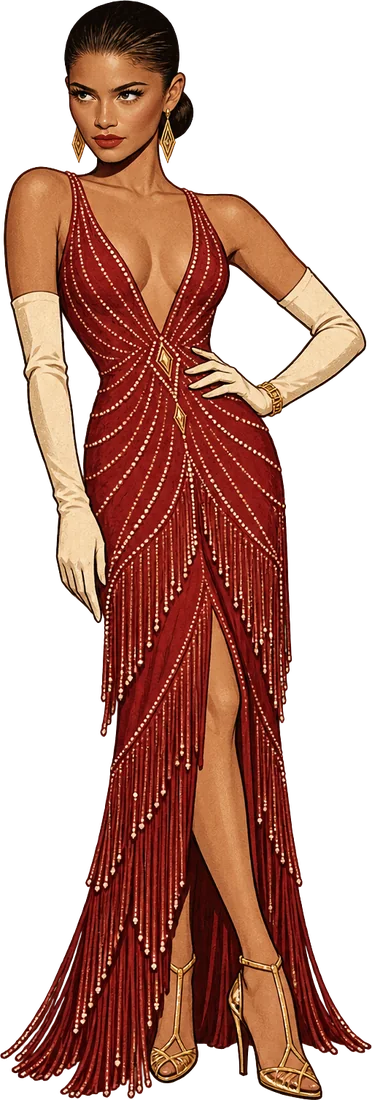
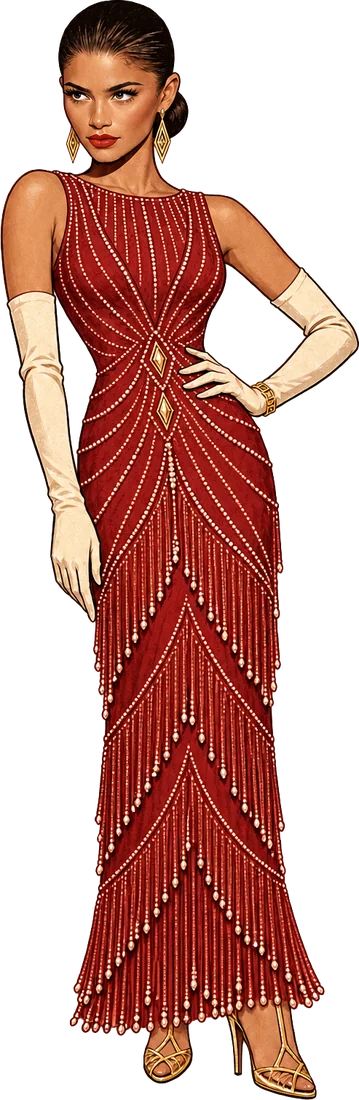
How to play in five pictured cards; Daya's dress covered up
How to play is five cards (six with an accomplice), each with a title and a
picture of the rule: the guests' faces with the masked killer among them, the
weapons, the map with a phone scanning a card, a guest behind bars with the
votes, and who + with what + where. New lines (howCase, howSearch, howJail2,
howWin2) are drafts for Heston's review and still need recording.

Claude-Session: https://claude.ai/code/session_011n5gPsd4ZZgTYeVzG34PYX

diff --git a/src/tv/Tv.tsx b/src/tv/Tv.tsx
@@ -3,7 +3,7 @@ import { useMutation, useQuery } from "convex/react";
 import { api } from "../../convex/_generated/api";
 import { HOSTS, captionText, cueFile, cueVariant, type CueKey } from "../../convex/narration";
 import { VOTE } from "../../convex/shared";
-import { SHOW } from "../../convex/show";
+import { HOW_TITLE, SHOW } from "../../convex/show";
 import { Qr, wifiQrText } from "../lib/qr";
 import HouseMap from "./HouseMap";
 import { avatarSrc, faceUrl, faceX, figureUrl } from "../lib/figure";
@@ -668,19 +668,30 @@ function showScene(d: Data, p: Plan, now: number): Scene | null {
     const n = p.rules.steps.length;
     const i = Math.max(0, p.rules.steps.findIndex((st) => now < st.until));
     const step = p.rules.steps[i];
-    const wide = step.art === "map";
+    const wide = step.art === "search" || step.art === "win";
+    const stand = d.standIns?.length ? d.standIns : ALL_FIGURE_KEYS;
     return {
       key: `how${i}`,
       node: (
         <div className="tv-scene how">
           <div className={`tv-how ${wide ? "wide" : ""}`}>
             <div className={`tv-how-art ${wide ? "map" : ""}`}>
-              {step.art === "map" ? (
-                <HouseMap map={demoMap(d.map, step.at)} round={1} now={now} />
+              {step.art === "suspects" ? (
+                <HowSuspects faces={stand.slice(0, 4)} />
+              ) : step.art === "search" ? (
+                <div className="tv-how-search">
+                  <HouseMap map={demoMap(d.map, step.at)} round={1} now={now} />
+                  <ScanPhone />
+                </div>
               ) : step.art === "weapons" ? (
                 <WeaponFan weapons={d.weapons} />
-              ) : step.art === "bars" ? (
-                <Jailed figure={dress(d, "guest3")} className="enter" />
+              ) : step.art === "jail" ? (
+                <div className="tv-how-jail">
+                  <Jailed figure={dress(d, "guest3")} className="enter" />
+                  <VoteDots />
+                </div>
+              ) : step.art === "win" ? (
+                <HowWin face={stand[0]} weapon={d.weapons[0] ?? { key: "candlestick", name: "Candlestick" }} room={d.map.rooms[0]?.label ?? "The Lounge"} />
               ) : step.art === "pair" ? (
                 // The accomplice: the masked killer, with someone at their shoulder.
                 <div className="tv-how-pair">
@@ -693,6 +704,7 @@ function showScene(d: Data, p: Plan, now: number): Scene | null {
             </div>
             <div className="tv-how-text">
               <span className="tv-kick fade">How to play · {i + 1} of {n}</span>
+              {HOW_TITLE[step.cue] && <h2 className="tv-how-title fade">{HOW_TITLE[step.cue]}</h2>}
               <div className="tv-rule fade">{captionText(step.cue, g.tone, g.narrator.host, step.v)}</div>
             </div>
           </div>
@@ -894,6 +906,75 @@ function WeaponFan({ weapons }: { weapons: Weapon[] }) {
       {three.map((w) => (
         <WeaponCard key={w.key} weapon={w} />
       ))}
+    </div>
+  );
+}
+
+/** How to play, card 1: this game's faces with the masked killer in the middle. One of them did it. */
+function HowSuspects({ faces }: { faces: string[] }) {
+  const row = [...faces.slice(0, 2), "killer", ...faces.slice(2, 4)];
+  return (
+    <div className="tv-how-suspects">
+      {row.map((f, i) => (
+        <span key={`${f}${i}`} className={`face ${f === "killer" ? "it" : ""}`} style={{ animationDelay: `${0.1 + i * 0.12}s` }}>
+          <img src={faceUrl(f)} alt="" />
+          {f === "killer" && <b>?</b>}
+        </span>
+      ))}
+    </div>
+  );
+}
+
+/** How to play, searching: a phone scanning an evidence card. */
+function ScanPhone() {
+  return (
+    <div className="tv-scan" aria-hidden="true">
+      <svg viewBox="0 0 60 100">
+        <rect x="2" y="2" width="56" height="96" rx="8" className="body" />
+        <rect x="8" y="12" width="44" height="70" rx="2" className="screen" />
+        <g className="qr">
+          {[0, 1, 2, 3, 4].flatMap((r) => [0, 1, 2, 3, 4].map((c) => ((r * 7 + c * 3) % 5 < 3 || (r % 4 === 0 && c % 4 === 0) ? <rect key={`${r}${c}`} x={14 + c * 6.4} y={28 + r * 6.4} width="5.4" height="5.4" /> : null)))}
+        </g>
+        <rect x="10" y="44" width="40" height="1.6" className="beam" />
+      </svg>
+    </div>
+  );
+}
+
+/** How to play, the jail vote: more than half of the votes. */
+function VoteDots() {
+  return (
+    <div className="tv-vdots">
+      <span className="dots">
+        {[1, 1, 1, 0, 0].map((on, i) => (
+          <i key={i} className={on ? "on" : ""} style={{ animationDelay: `${0.6 + i * 0.18}s` }} />
+        ))}
+      </span>
+      <span className="lab">More than half</span>
+    </div>
+  );
+}
+
+/** How to play, locking in: who + with what + where. */
+function HowWin({ face, weapon, room }: { face: string; weapon: Weapon; room: string }) {
+  return (
+    <div className="tv-how-win">
+      <div className="tile fade" style={{ animationDelay: ".15s" }}>
+        <span className="q">Who</span>
+        <span className="pic face">
+          <img src={faceUrl(face)} alt="" />
+        </span>
+      </div>
+      <span className="plus fade" style={{ animationDelay: ".35s" }}>+</span>
+      <div className="tile fade" style={{ animationDelay: ".5s" }}>
+        <span className="q">With what</span>
+        <WeaponCard weapon={weapon} />
+      </div>
+      <span className="plus fade" style={{ animationDelay: ".7s" }}>+</span>
+      <div className="tile fade" style={{ animationDelay: ".85s" }}>
+        <span className="q">Where</span>
+        <span className="pic room">{room}</span>
+      </div>
     </div>
   );
 }

diff --git a/convex/narration.ts b/convex/narration.ts
@@ -166,6 +166,33 @@ export const CUES = {
     adult: "More than half of you need the right killer, more than half the right weapon, and more than half the right room. Exactly half is a tie, and ties go to the killer. [short pause] Then we vote for Best Dressed and Best Liar.",
     wild: ["[maniacal laughter]", "[cackles]"],
   },
+  // ---- How to play, v3 (Oct 16, Heston: "the rules need to be simplified", "use visuals to help explain the rules,
+  // and condense the rules if possible"): five cards (six with an accomplice), each with a picture that shows the
+  // rule. Same rules as v2, fewer words. Drafts for Heston's review. ----
+  howCase: {
+    when: "How to play v3, card 1 (one of you did it; your phone; lying)",
+    classic: "[warm, conspiratorial] One of you killed Don Ray Sanders. Your phone will tell you if it was you. [short pause] Only the guilty may lie about the murder.",
+    adult: "[warm, conspiratorial] One of you killed Don Ray Sanders. Your phone will tell you if it was you. [short pause] Only the guilty get to lie about the murder. Everyone else, lie about everything else.",
+    wild: ["[clapping hands, way over the top]", "[cackles]"],
+  },
+  howSearch: {
+    when: "How to play v3, searching",
+    classic: "Three rounds. Each round, search the house for evidence cards and scan them with your phone. [short pause] The evidence shows up right here.",
+    adult: "Three rounds. Tear the house apart for evidence cards and scan them with your phone. [short pause] The dirt shows up right here.",
+    wild: ["[shouting like a carnival barker]", ""],
+  },
+  howJail2: {
+    when: "How to play v3, the jail vote",
+    classic: "After each round, vote someone into jail. It takes more than half of you. [short pause] Jailbirds can't search or vote, and next round you can vote them out.",
+    adult: "After each round, vote somebody into jail. More than half of you have to agree. [short pause] Jailbirds can't search or vote. They can bribe. Next round, you can spring them.",
+    wild: ["[banging on the bars, shouting]", "[evil laugh]"],
+  },
+  howWin2: {
+    when: "How to play v3, locking in and winning",
+    classic: "After round three, lock in who did it, with what, and where. [short pause] If most of you get the killer, the weapon and the room right, you win. If not, the killer walks.",
+    adult: "After round three, lock in: who, with what, and where. [short pause] If most of you get all three right, you win. Miss, and the killer walks out of here laughing.",
+    wild: ["[maniacal laughter]", "[cackles]"],
+  },
   // ---- roll call, v2: after How to play ----
   rollLocked: {
     when: "Roll call v2 begins",
@@ -499,6 +526,22 @@ export const ADULT_MORE: Partial<Record<CueKey, string[]>> = {
   howWin: [
     "To win, more than half of you need the right killer, more than half the right weapon, and more than half the right room. Half is not more than half. We checked with an accountant. [short pause] Then we vote for Best Dressed and Best Liar.",
     "More than half of you have to get the killer, more than half the weapon, and more than half the room. Miss one, and the killer walks out a free and very smug individual. [short pause] Then we vote for Best Dressed and Best Liar.",
+  ],
+  howCase: [
+    "[warm, conspiratorial] Somebody in this room killed the Don. Check your phone after the roll call to find out if it was you. [short pause] Only the guilty may lie about the murder.",
+    "[warm, conspiratorial] One of you is a killer, and your phone knows which. Keep your screen to yourself. [short pause] Only the guilty may lie about the murder. The rest of you, try honesty. It's new.",
+  ],
+  howSearch: [
+    "Three rounds of searching. Find the evidence cards, scan them with your phone, and put things back where you found them. [short pause] The evidence lands on this screen.",
+    "Three rounds. Hunt down the evidence cards and scan them. Drawers, closets, under the couch. [short pause] Whatever you find shows up here.",
+  ],
+  howJail2: [
+    "Every round ends with a jail vote. Majority rules. [short pause] Jailbirds can't search or vote, but they can still talk, which is the real punishment for everyone else.",
+    "After each round, you vote someone behind bars. More than half of you, or nobody goes. [short pause] Next round you can vote them back out. This is called the justice system.",
+  ],
+  howWin2: [
+    "After the last round, everybody who's free locks in who, with what, and where. No take-backs. [short pause] Most of you right on all three, you win. Otherwise, the killer goes home happy.",
+    "Round three ends, you lock in: the killer, the weapon, the room. [short pause] If most of you nail all three, justice. If not, the killer gets a very nice weekend.",
   ],
   rollLocked: [
     "[low, grave] The doors are locked until we figure out which one of you did it. [short pause] Bathroom breaks will be supervised. Let's meet the suspects.",

diff --git a/src/tv/tv.css b/src/tv/tv.css
@@ -335,3 +335,34 @@
 .tv-reveal-weapon { display: flex; align-items: center; gap: 2cqw; }
 .tv-reveal-weapon .tv-wcard { width: 10cqw; }
 @media (prefers-reduced-motion: reduce) { .tv-jailed.slam .bars, .tv-verdict-who img.freed { animation: none; } }
+
+/* How to play v3 (Oct 16): a title over each rule, and a picture that shows it */
+.tv-how-title { margin: 0; font-family: var(--display); font-size: 4.6cqw; line-height: 1; color: var(--paper); }
+.tv-how-text .tv-rule { font-size: 2.5cqw; }
+.tv-how-suspects { display: flex; align-items: center; justify-content: center; gap: 1cqw; height: 100%; }
+.tv-how-suspects .face { position: relative; width: 6.4cqw; aspect-ratio: 1; border-radius: 50%; overflow: hidden; border: .2cqw solid var(--brass); opacity: .75; animation: howin .7s cubic-bezier(.2, .8, .2, 1) both; }
+.tv-how-suspects .face img { width: 100%; height: 100%; object-fit: cover; display: block; }
+.tv-how-suspects .face.it { width: 10cqw; opacity: 1; border-color: #c0392b; box-shadow: 0 0 2.4cqw rgba(192, 57, 43, .6); }
+.tv-how-suspects .face.it b { position: absolute; inset: 0; display: grid; place-items: center; font-family: var(--display); font-size: 6cqw; color: rgba(255, 255, 255, .9); text-shadow: 0 .3cqw 1cqw rgba(0, 0, 0, .8); }
+.tv-how-search { position: relative; width: 100%; }
+.tv-scan { position: absolute; right: -2cqw; bottom: -2cqw; width: 9cqw; filter: drop-shadow(0 .8cqw 1.4cqw rgba(0, 0, 0, .6)); animation: howin .9s .5s cubic-bezier(.2, .8, .2, 1) both; }
+.tv-scan svg { display: block; width: 100%; }
+.tv-scan .body { fill: #1c1014; stroke: var(--brass); stroke-width: 1.4; }
+.tv-scan .screen { fill: #f4ead5; }
+.tv-scan .qr rect { fill: #1c1014; }
+.tv-scan .beam { fill: #c0392b; animation: scanbeam 1.6s ease-in-out infinite alternate; }
+@keyframes scanbeam { from { transform: translateY(-14px); } to { transform: translateY(16px); } }
+.tv-how-jail { position: relative; height: 100%; display: grid; place-items: end center; }
+.tv-vdots { position: absolute; left: 50%; bottom: -4.2cqw; translate: -50% 0; display: grid; justify-items: center; gap: .5cqw; }
+.tv-vdots .dots { display: flex; gap: .8cqw; }
+.tv-vdots i { width: 2cqw; height: 2cqw; border-radius: 50%; border: .2cqw solid var(--brass); animation: howin .5s both; }
+.tv-vdots i.on { background: var(--brass); }
+.tv-vdots .lab { font-family: var(--label); font-size: 1.2cqw; font-weight: 700; letter-spacing: .2em; text-transform: uppercase; color: var(--brass); }
+.tv-how-win { display: flex; align-items: center; justify-content: center; gap: 1.6cqw; width: 100%; }
+.tv-how-win .tile { display: grid; justify-items: center; gap: 1cqw; }
+.tv-how-win .q { font-family: var(--label); font-size: 1.3cqw; font-weight: 700; letter-spacing: .2em; text-transform: uppercase; color: var(--brass); }
+.tv-how-win .pic.face { width: 11cqw; aspect-ratio: 1; border-radius: 50%; overflow: hidden; border: .25cqw solid var(--brass); }
+.tv-how-win .pic.face img { width: 100%; height: 100%; object-fit: cover; display: block; }
+.tv-how-win .pic.room { display: grid; place-items: center; width: 13cqw; aspect-ratio: 1; padding: 1cqw; border: .25cqw solid var(--brass); font-family: var(--display); font-size: 2.2cqw; line-height: 1.05; text-align: center; color: var(--paper); background: rgba(0, 0, 0, .25); }
+.tv-how-win .tv-wcard { width: 11cqw; }
+.tv-how-win .plus { font-family: var(--display); font-size: 4cqw; color: var(--brass); }

diff --git a/convex/show.ts b/convex/show.ts
@@ -35,28 +35,35 @@ export function cueSecs(voice: string, tone: Tone, host: HostKey, cue: CueKey, v
   return rec[voice]?.[tone]?.[cueFile(cue, v)] ?? readSecs(captionText(cue, tone, host, v));
 }
 
-/** A drawing in /art, the house map, the jail bars, a fan of weapon cards, or "pair" (the killer and the accomplice). */
+/** What each How to play card shows: "suspects" (the guests' faces with the masked killer among them), "pair" (the
+ *  killer and the accomplice), "weapons" (a fan of the weapons in play), "search" (the map and a scan), "jail" (a guest
+ *  behind bars and the vote), "win" (who + with what + where). */
 export type HowArt = string;
 
 /**
- * How to play, v2: one illustrated card per line. A killer + accomplice game adds the accomplice card (the masked
- * killer with a second drawing at their shoulder) and says the accomplice may lie too.
+ * How to play, v3 (Oct 16, Heston: "Use visuals to help explain the rules, and condense the rules if possible"): five
+ * cards, each with a picture of the rule; a killer + accomplice game adds the accomplice card after the first.
  */
 export function howCues(g: { search: "all" | "waves"; pacing: { mode: "ready" | "timer" }; accomplice?: boolean }): [CueKey, HowArt][] {
   return [
-    ["howKiller", "killer"],
+    ["howCase", "suspects"],
     ...(g.accomplice ? [["howAccomplice", "pair"] as [CueKey, HowArt]] : []),
-    ["howRoles", "guest1"],
     ["howWeapons", "weapons"],
-    [g.search === "waves" ? "howTo4Waves" : "howTo4", "map"],
-    [g.pacing.mode === "timer" ? "howTo6Timer" : "howTo6", "guest2"],
-    ["howJail", "bars"],
-    ["howRelease", "guest3"],
-    [g.accomplice ? "howTo7Acc" : "howTo7", "guest4"],
-    ["howLockIn", "guest5"],
-    ["howWin", "don"],
+    ["howSearch", "search"],
+    ["howJail2", "jail"],
+    ["howWin2", "win"],
   ];
 }
+
+/** The headline on each How to play card. */
+export const HOW_TITLE: Partial<Record<CueKey, string>> = {
+  howCase: "One of you did it",
+  howAccomplice: "The accomplice",
+  howWeapons: "The weapons",
+  howSearch: "Search and scan",
+  howJail2: "The jail vote",
+  howWin2: "Lock it in",
+};
 
 export function howLayout(at: number, cues: [CueKey, HowArt][], secs: (c: CueKey) => number) {
   let t = at;

diff --git a/tests/timeline.test.ts b/tests/timeline.test.ts
@@ -50,7 +50,7 @@ describe("TV timeline", () => {
 
   // The show (v2): Start → intro → How to play → roll call → check your phones → Round 1.
   const HOW = T0 + 40_000;
-  const ROLL = HOW + 10 * (600 + 3000 + 1200); // ten How to play cards, 3 s lines
+  const ROLL = HOW + 5 * (600 + 3000 + 1200); // five How to play cards, 3 s lines
   const item = (id: string, clipSecs: number | null) => ({
     id, charName: id.toUpperCase(), realName: `Real ${id}`, photoUrl: null, figure: "emily", who: "Who.", signature: "A hat",
     weapon: { key: "rope", name: "Rope" }, motive: "He owed you money.", roast: "A roast.", line: `Introducing ${id}. Weapon: the rope.`,
@@ -84,13 +84,14 @@ describe("TV timeline", () => {
     expect(p.music).toBe("intro");
     expect(p.ambience).toEqual(["heartbeat"]);
 
-    // How to play: ten cards, the waves and timer versions, read quietly (the card shows the line).
+    // How to play: five cards, read quietly (the card shows the line).
     p = plan(data({ game: showGame(), voice: showVoice() }), HOW + 100, secs);
     expect(p.part).toBe("how");
     expect(p.loop).toBe("rollcall");
-    expect(p.rules!.steps.map((s) => s.cue)).toEqual(["howKiller", "howRoles", "howWeapons", "howTo4Waves", "howTo6Timer", "howJail", "howRelease", "howTo7", "howLockIn", "howWin"]);
-    expect(p.rules!.steps.map((s) => s.art)).toEqual(["killer", "heston", "weapons", "map", "emily", "bars", "sam", "miranda", "josh", "don"]);
-    for (let i = 1; i < 10; i++) expect(p.rules!.steps[i].at).toBe(p.rules!.steps[i - 1].until);
+    // v3 (Oct 16): five cards, each with a picture of the rule
+    expect(p.rules!.steps.map((s) => s.cue)).toEqual(["howCase", "howWeapons", "howSearch", "howJail2", "howWin2"]);
+    expect(p.rules!.steps.map((s) => s.art)).toEqual(["suspects", "weapons", "search", "jail", "win"]);
+    for (let i = 1; i < 5; i++) expect(p.rules!.steps[i].at).toBe(p.rules!.steps[i - 1].until);
     expect(p.rules!.end).toBe(ROLL);
     expect(p.events.filter((e) => e.id.startsWith("how:") && e.cue).every((e) => e.quiet)).toBe(true);
 

diff --git a/src/lib/figure.ts b/src/lib/figure.ts
@@ -9,5 +9,5 @@ export const avatarSrc = (photoUrl?: string | null, figure?: string | null) => p
  * Where each drawing's face sits across its width (0 to 1), for lining the face up with the gap in the
  * jail bars (public/art/jailbars.webp). Measured from the art: the middle of the head in the top 15%.
  */
-export const FACE_X: Record<string, number> = {"bodyguard": 0.455, "brayden": 0.294, "brian": 0.386, "brianna": 0.445, "holden": 0.393, "sienna": 0.323, "chrissie": 0.448, "cigarette": 0.322, "curls": 0.442, "daya": 0.336, "dapper": 0.5, "detective": 0.446, "don": 0.445, "emily": 0.387, "flapper": 0.608, "gambler": 0.403, "heiress": 0.453, "heston": 0.441, "josh": 0.415, "killer": 0.43, "lady": 0.45, "madison": 0.471, "miranda": 0.474, "owner": 0.508, "reily": 0.4, "reporter": 0.364, "sam": 0.422, "singer": 0.326, "sleuth": 0.272, "slick": 0.494, "sophia": 0.46, "sweetheart": 0.406, "trumpet": 0.495};
+export const FACE_X: Record<string, number> = {"bodyguard": 0.455, "brayden": 0.294, "brian": 0.386, "brianna": 0.445, "holden": 0.393, "sienna": 0.323, "chrissie": 0.448, "cigarette": 0.322, "curls": 0.442, "daya": 0.334, "dapper": 0.5, "detective": 0.446, "don": 0.445, "emily": 0.387, "flapper": 0.608, "gambler": 0.403, "heiress": 0.453, "heston": 0.441, "josh": 0.415, "killer": 0.43, "lady": 0.45, "madison": 0.471, "miranda": 0.474, "owner": 0.508, "reily": 0.4, "reporter": 0.364, "sam": 0.422, "singer": 0.326, "sleuth": 0.272, "slick": 0.494, "sophia": 0.46, "sweetheart": 0.406, "trumpet": 0.495};
 export const faceX = (key: string) => FACE_X[key] ?? 0.45;

diff --git a/tests/accomplice.test.ts b/tests/accomplice.test.ts
@@ -102,13 +102,13 @@ describe("the engine, with an accomplice", () => {
     const one = howCues(base).map(([c]) => c);
     const two = howCues({ ...base, accomplice: true }).map(([c]) => c);
     expect(one).not.toContain("howAccomplice");
-    expect(one).toContain("howTo7");
-    expect(two.slice(0, 2)).toEqual(["howKiller", "howAccomplice"]);
-    expect(two).toContain("howTo7Acc");
-    expect(two).not.toContain("howTo7");
+    expect(two.slice(0, 2)).toEqual(["howCase", "howAccomplice"]);
+    expect(two.length).toBe(one.length + 1);
+    // "only the guilty may lie about the murder" covers the accomplice too
+    expect(captionText("howCase", "classic", "ivy")).toMatch(/only the guilty/i);
     expect(howCues({ ...base, accomplice: true }).find(([c]) => c === "howAccomplice")![1]).toBe("pair");
     // every adult line has three clean versions, plus the noisy take
-    for (const cue of ["howAccomplice", "howTo7Acc", "revealAccomplice"] as const) {
+    for (const cue of ["howAccomplice", "revealAccomplice"] as const) {
       expect(cueVersions(cue, "adult").length).toBeGreaterThanOrEqual(3);
       expect(captionText(cue, "classic", "ivy")).toMatch(/accomplice/i);
     }
